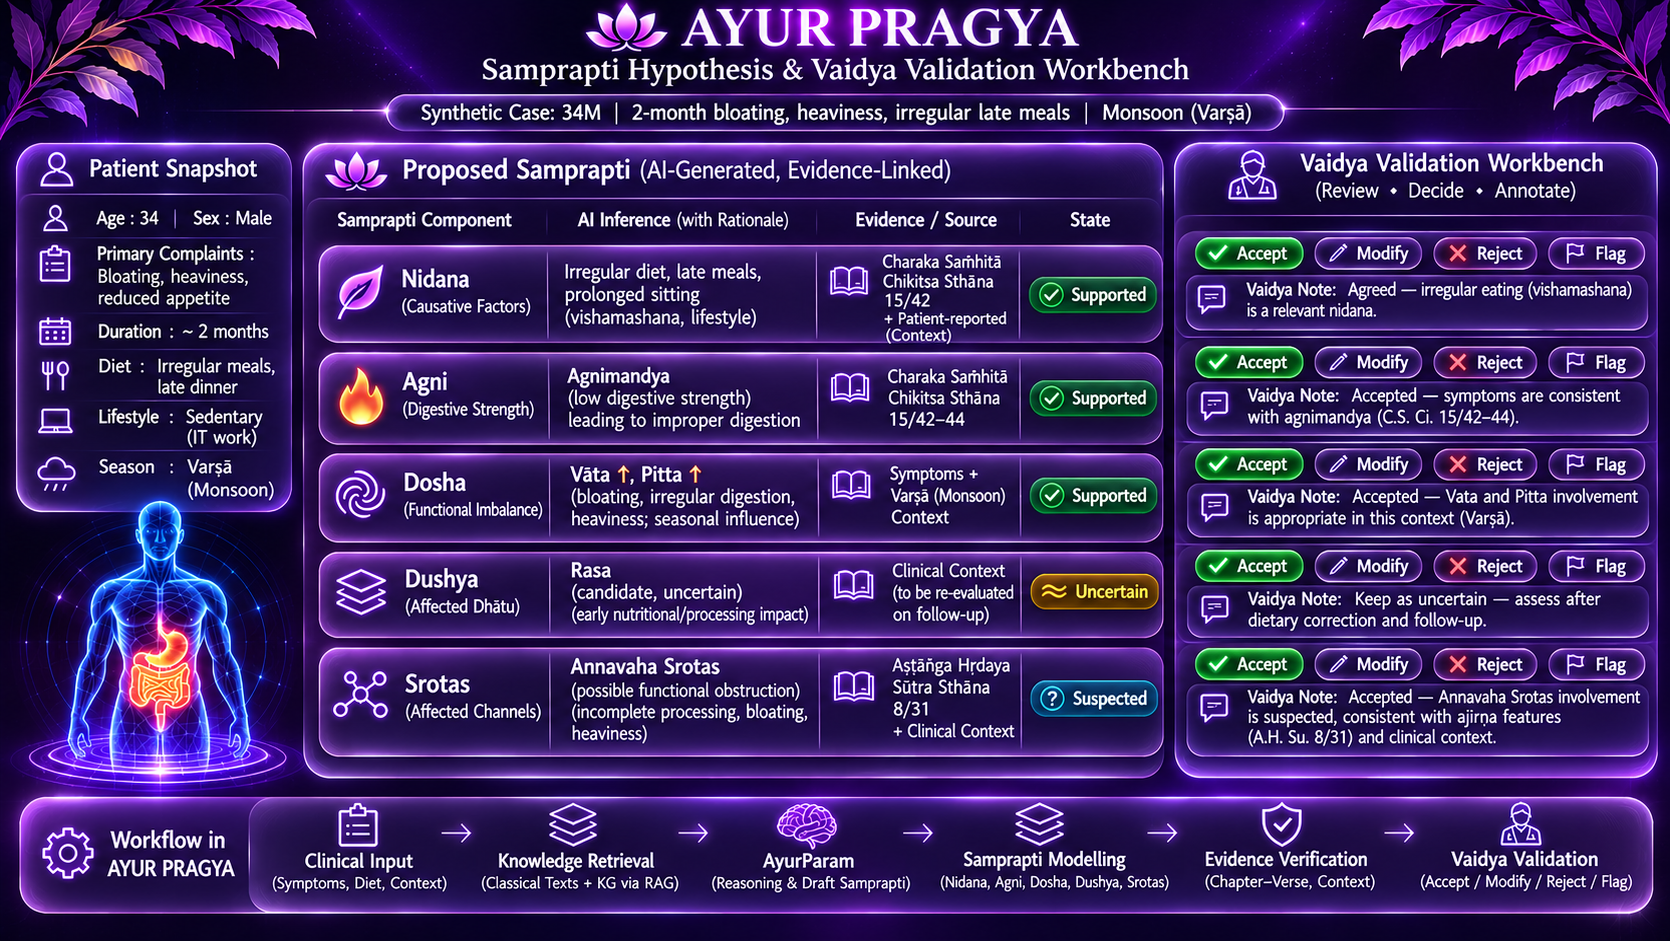
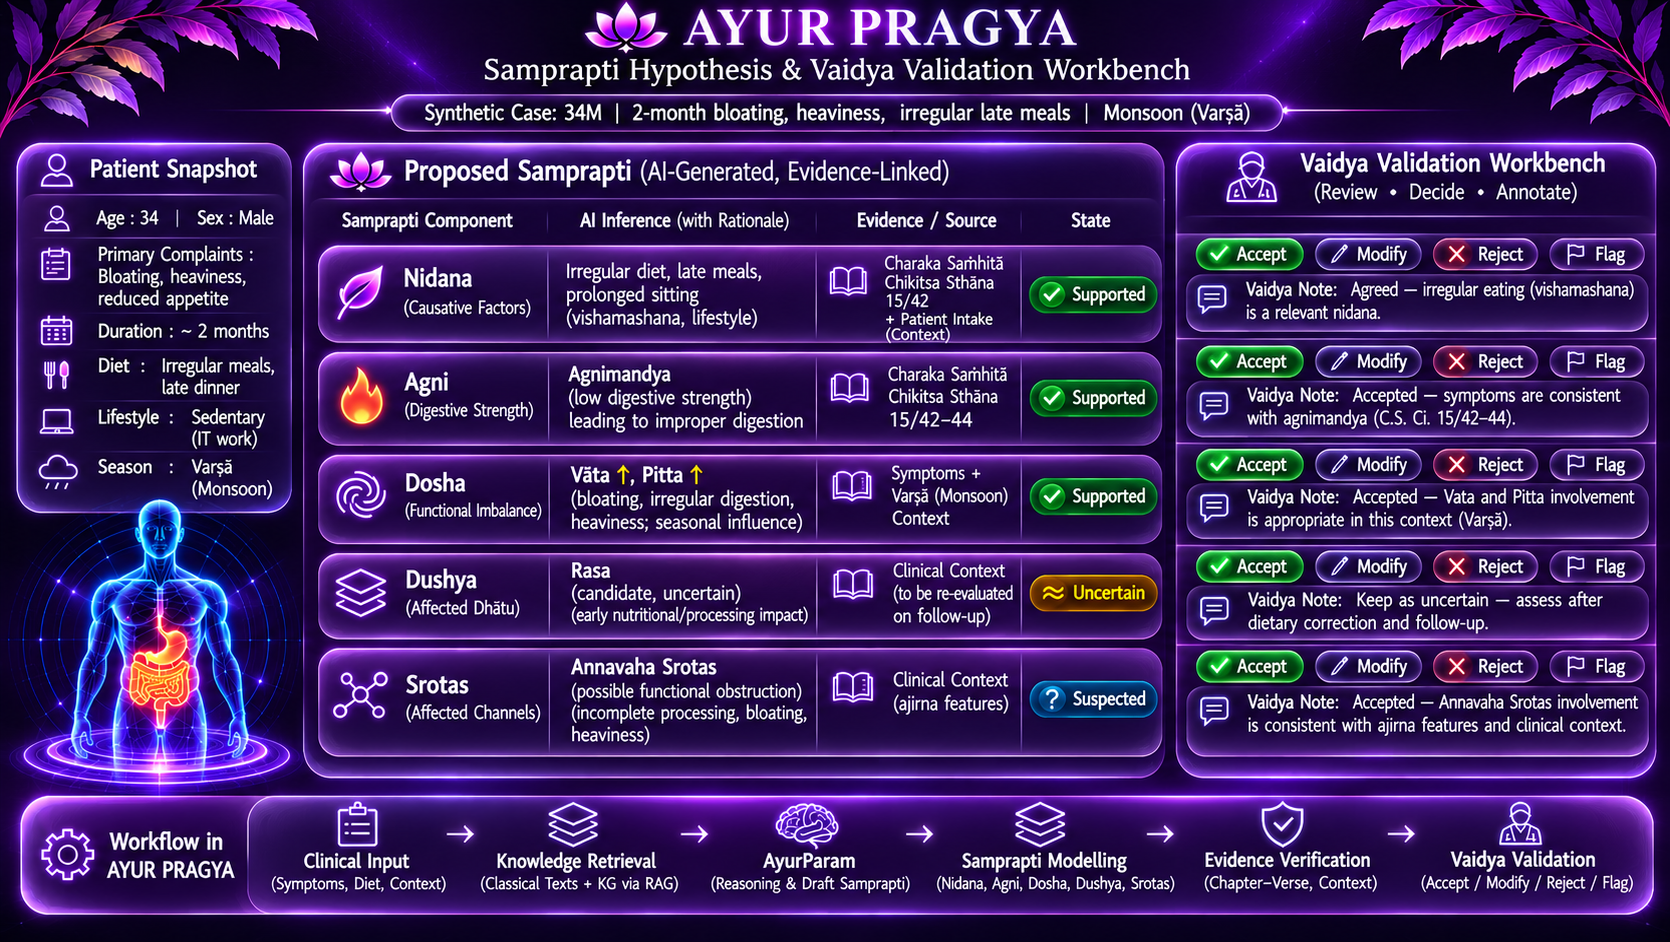
Update Figure 2 and remove unverified Ashtanga Hridaya references

Changed region(s): [[0.0, 0.0, 1.0, 1.0], [0.218, 0.0308, 0.2491, 0.0616]]

diff --git a/docs/index.html b/docs/index.html
@@ -175,7 +175,7 @@ p { margin:0 0 6px; }
 <section class="page" id="page6">
   <div class="topbar"><button class="listen" data-key="p6" aria-label="Listen to page 6"><svg class="arr" viewBox="0 0 60 12" aria-hidden="true"><path d="M0 6 H54" /><path d="M54 6 L46 1 M54 6 L46 11" /></svg><span class="tap">Tap to hear</span><span class="pill"><span class="play">&#9654;</span> Click here to listen: our team explains this</span></button><div class="ctl"><div class="player" data-key="p6" hidden><span class="t cur">0:00</span><div class="bar"><div class="fill"></div></div><span class="t left">-0:00</span><div class="speeds"><button type="button" data-rate="1" class="on">1&times;</button><button type="button" data-rate="1.5">1.5&times;</button><button type="button" data-rate="2">2&times;</button></div></div><p class="note voice" data-key="p6" hidden>Voice note to be added.</p></div></div>
   <div class="content">
-<h2 class="fig-title">Figure 2. Samprapti hypothesis and Vaidya validation view</h2><p class="note">Design mock-up. Same synthetic scenario (34-year-old male), shown as the hypothesis the Vaidya reviews.</p><div class="glass fig"><img src="images/fig2-validation.png" alt="Figure 2. Samprapti hypothesis and Vaidya validation view"><p class="cap">Figure 2. Samprapti hypothesis and Vaidya validation view (design mock-up).</p></div><div class="glass"><p class="item"><b>Nidana (causative factors), Supported.</b> <i>Vishamashana</i> (irregular diet and late meals) and prolonged sitting, linked to the patient's intake and Charaka Samhita, Chikitsa Sthana 15/42.</p><p class="item"><b>Agni (digestive strength), Supported.</b> <i>Agnimandya</i> (weak <i>Jatharagni</i>, the gastric fire), so food is incompletely digested and may turn sour (<i>Shuktatva</i>). Linked to Charaka Samhita, Chikitsa Sthana 15/42-44.</p><p class="item"><b>Dosha (functional imbalance), Supported.</b> <i>Vata</i> aggravation, shown as <i>Vishtambha</i> (abdominal distension), and <i>Pitta</i> aggravation, influenced by the <i>Varsha Ritu</i> (monsoon season).</p><p class="item"><b>Dushya (affected tissue), Uncertain.</b> <i>Rasa Dhatu</i> (the first nutrient fluid tissue) is a candidate that needs follow-up. Food (<i>Ahara</i>) is handled under <i>Agni</i>, not classed as a <i>Dushya</i>.</p><p class="item"><b>Srotas (channels), Suspected.</b> <i>Annavaha Srotas</i> (the food-transport channel) with functional obstruction (<i>Sanga</i>), linked to Ashtanga Hridaya, Sutra Sthana 8/31 and the patient's bloating and heaviness.</p><p class="item"><b>Vaidya workbench.</b> Each component needs a practitioner decision (Accept, Modify, Reject or Flag). The note is stored separately from the AI draft.</p></div>
+<h2 class="fig-title">Figure 2. Samprapti hypothesis and Vaidya validation view</h2><p class="note">Design mock-up. Same synthetic scenario (34-year-old male), shown as the hypothesis the Vaidya reviews.</p><div class="glass fig"><img src="images/fig2-validation.png" alt="Figure 2. Samprapti hypothesis and Vaidya validation view"><p class="cap">Figure 2. Samprapti hypothesis and Vaidya validation view (design mock-up).</p></div><div class="glass"><p class="item"><b>Nidana (causative factors), Supported.</b> <i>Vishamashana</i> (irregular diet and late meals) and prolonged sitting, linked to the patient's intake and Charaka Samhita, Chikitsa Sthana 15/42.</p><p class="item"><b>Agni (digestive strength), Supported.</b> <i>Agnimandya</i> (weak <i>Jatharagni</i>, the gastric fire), so food is incompletely digested and may turn sour (<i>Shuktatva</i>). Linked to Charaka Samhita, Chikitsa Sthana 15/42-44.</p><p class="item"><b>Dosha (functional imbalance), Supported.</b> <i>Vata</i> aggravation, shown as <i>Vishtambha</i> (abdominal distension), and <i>Pitta</i> aggravation, influenced by the <i>Varsha Ritu</i> (monsoon season).</p><p class="item"><b>Dushya (affected tissue), Uncertain.</b> <i>Rasa Dhatu</i> (the first nutrient fluid tissue) is a candidate that needs follow-up. Food (<i>Ahara</i>) is handled under <i>Agni</i>, not classed as a <i>Dushya</i>.</p><p class="item"><b>Srotas (channels), Suspected.</b> <i>Annavaha Srotas</i> (the food-transport channel) with functional obstruction (<i>Sanga</i>), linked to the patient's bloating and heaviness.</p><p class="item"><b>Vaidya workbench.</b> Each component needs a practitioner decision (Accept, Modify, Reject or Flag). The note is stored separately from the AI draft.</p></div>
   </div>
   <div class="foot"><span>PRAKAMYA | AYUR PRAGYA | AyushTech Innovate, Phase 1 Abstract</span><span>Page 6</span></div>
   <audio id="a-p6" preload="none" src="audio/page-6.mp3"></audio>
@@ -191,7 +191,7 @@ p { margin:0 0 6px; }
 <section class="page" id="page8">
   <div class="topbar"><button class="listen" data-key="p8" aria-label="Listen to page 8"><svg class="arr" viewBox="0 0 60 12" aria-hidden="true"><path d="M0 6 H54" /><path d="M54 6 L46 1 M54 6 L46 11" /></svg><span class="tap">Tap to hear</span><span class="pill"><span class="play">&#9654;</span> Click here to listen: our team explains this</span></button><div class="ctl"><div class="player" data-key="p8" hidden><span class="t cur">0:00</span><div class="bar"><div class="fill"></div></div><span class="t left">-0:00</span><div class="speeds"><button type="button" data-rate="1" class="on">1&times;</button><button type="button" data-rate="1.5">1.5&times;</button><button type="button" data-rate="2">2&times;</button></div></div><p class="note voice" data-key="p8" hidden>Voice note to be added.</p></div></div>
   <div class="content">
-<div class="glass refs"><h2>References</h2><p class="ref">1. Bhishagratna, K. L. (ed. and tr.), The Sushruta Samhita, Vol. II (Nidana, Sarira, Chikitsita and Kalpa Sthana), Calcutta, 1911. Public copy on <a href="https://archive.org/details/englishtranslati00susruoft" target="_blank" rel="noopener">archive.org</a>, marked not in copyright. Source of the Vata-Rakta passage.</p><p class="ref">2. BharatGen, AyurParam model card, Hugging Face: <a href="https://huggingface.co/bharatgenai/AyurParam" target="_blank" rel="noopener">huggingface.co/bharatgenai/AyurParam</a>.</p><p class="ref">3. Charaka Samhita, Chikitsa Sthana 15/42-44, online text (secondary source; check a printed edition before final use): <a href="https://www.siva.sh/caraka-samhita/chikitsa-sthana/15/42" target="_blank" rel="noopener">siva.sh chapter 15</a>.</p><p class="ref">4. Charaka Samhita, Chikitsa Sthana 15/39 and 15/42-44 (Grahani Chikitsa), online research edition: <a href="https://www.carakasamhitaonline.com/index.php/Grahani_Chikitsa" target="_blank" rel="noopener">https://www.carakasamhitaonline.com/index.php/Grahani_Chikitsa</a>.</p><p class="ref">5. Ashtanga Hridaya, Sutra Sthana 8/31 (Srikantha Murthy translation, Sutrasthana ch. 8), WisdomLib: <a href="https://www.wisdomlib.org/hinduism/book/ashtanga-hridaya-english/d/doc1123493.html" target="_blank" rel="noopener">https://www.wisdomlib.org/hinduism/book/ashtanga-hridaya-english/d/doc1123493.html</a>.</p><p class="ref">6. Ashtanga Hridaya, Sutra Sthana 8/31, Sanskrit verse and commentary, EasyAyurveda: <a href="https://www.easyayurveda.com/2013/05/14/rules-for-proper-eating-ashtanga-hridaya-sutrasthana-8th-chapter/" target="_blank" rel="noopener">https://www.easyayurveda.com/2013/05/14/rules-for-proper-eating-ashtanga-hridaya-sutrasthana-8th-chapter/</a>.</p><p class="ref">7. Sushruta Samhita, Bhishagratna English translation, Vol. II (1911), archive.org copy: <a href="https://archive.org/details/sushrutasamhitav02bhisuoft" target="_blank" rel="noopener">https://archive.org/details/sushrutasamhitav02bhisuoft</a>.</p></div>
+<div class="glass refs"><h2>References</h2><p class="ref">1. Bhishagratna, K. L. (ed. and tr.), The Sushruta Samhita, Vol. II (Nidana, Sarira, Chikitsita and Kalpa Sthana), Calcutta, 1911. Public copy on <a href="https://archive.org/details/englishtranslati00susruoft" target="_blank" rel="noopener">archive.org</a>, marked not in copyright. Source of the Vata-Rakta passage.</p><p class="ref">2. BharatGen, AyurParam model card, Hugging Face: <a href="https://huggingface.co/bharatgenai/AyurParam" target="_blank" rel="noopener">huggingface.co/bharatgenai/AyurParam</a>.</p><p class="ref">3. Charaka Samhita, Chikitsa Sthana 15/42-44, online text (secondary source; check a printed edition before final use): <a href="https://www.siva.sh/caraka-samhita/chikitsa-sthana/15/42" target="_blank" rel="noopener">siva.sh chapter 15</a>.</p><p class="ref">4. Charaka Samhita, Chikitsa Sthana 15/39 and 15/42-44 (Grahani Chikitsa), online research edition: <a href="https://www.carakasamhitaonline.com/index.php/Grahani_Chikitsa" target="_blank" rel="noopener">https://www.carakasamhitaonline.com/index.php/Grahani_Chikitsa</a>.</p><p class="ref">7. Sushruta Samhita, Bhishagratna English translation, Vol. II (1911), archive.org copy: <a href="https://archive.org/details/sushrutasamhitav02bhisuoft" target="_blank" rel="noopener">https://archive.org/details/sushrutasamhitav02bhisuoft</a>.</p></div>
   </div>
   <div class="foot"><span>PRAKAMYA | AYUR PRAGYA | AyushTech Innovate, Phase 1 Abstract</span><span>Page 8</span></div>
   <audio id="a-p8" preload="none" src="audio/page-8.mp3"></audio>
